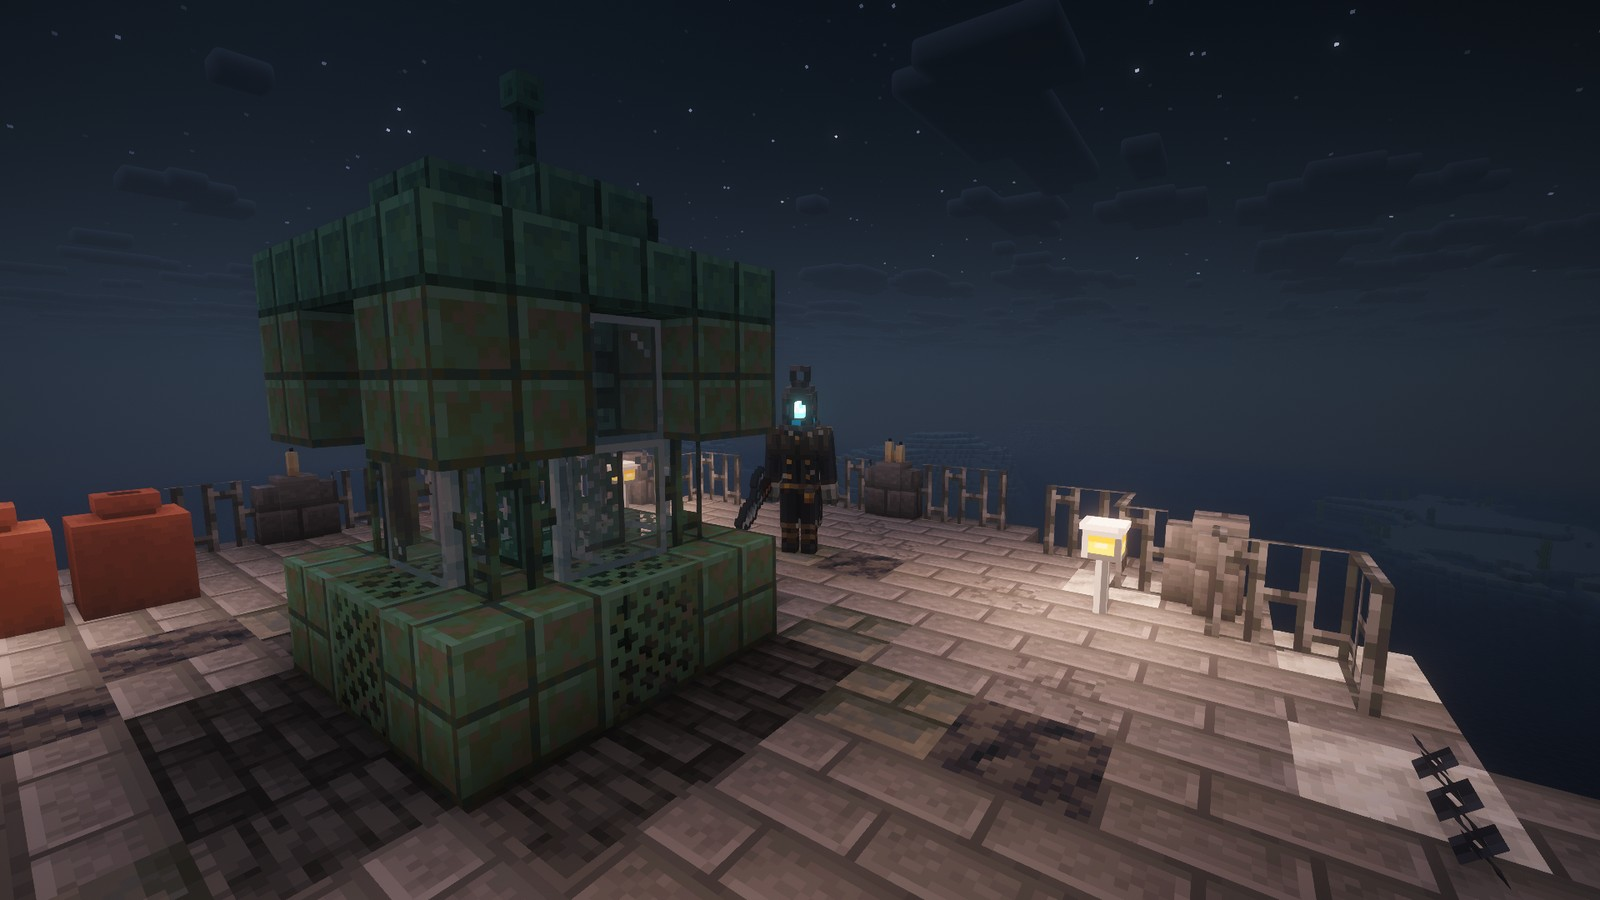
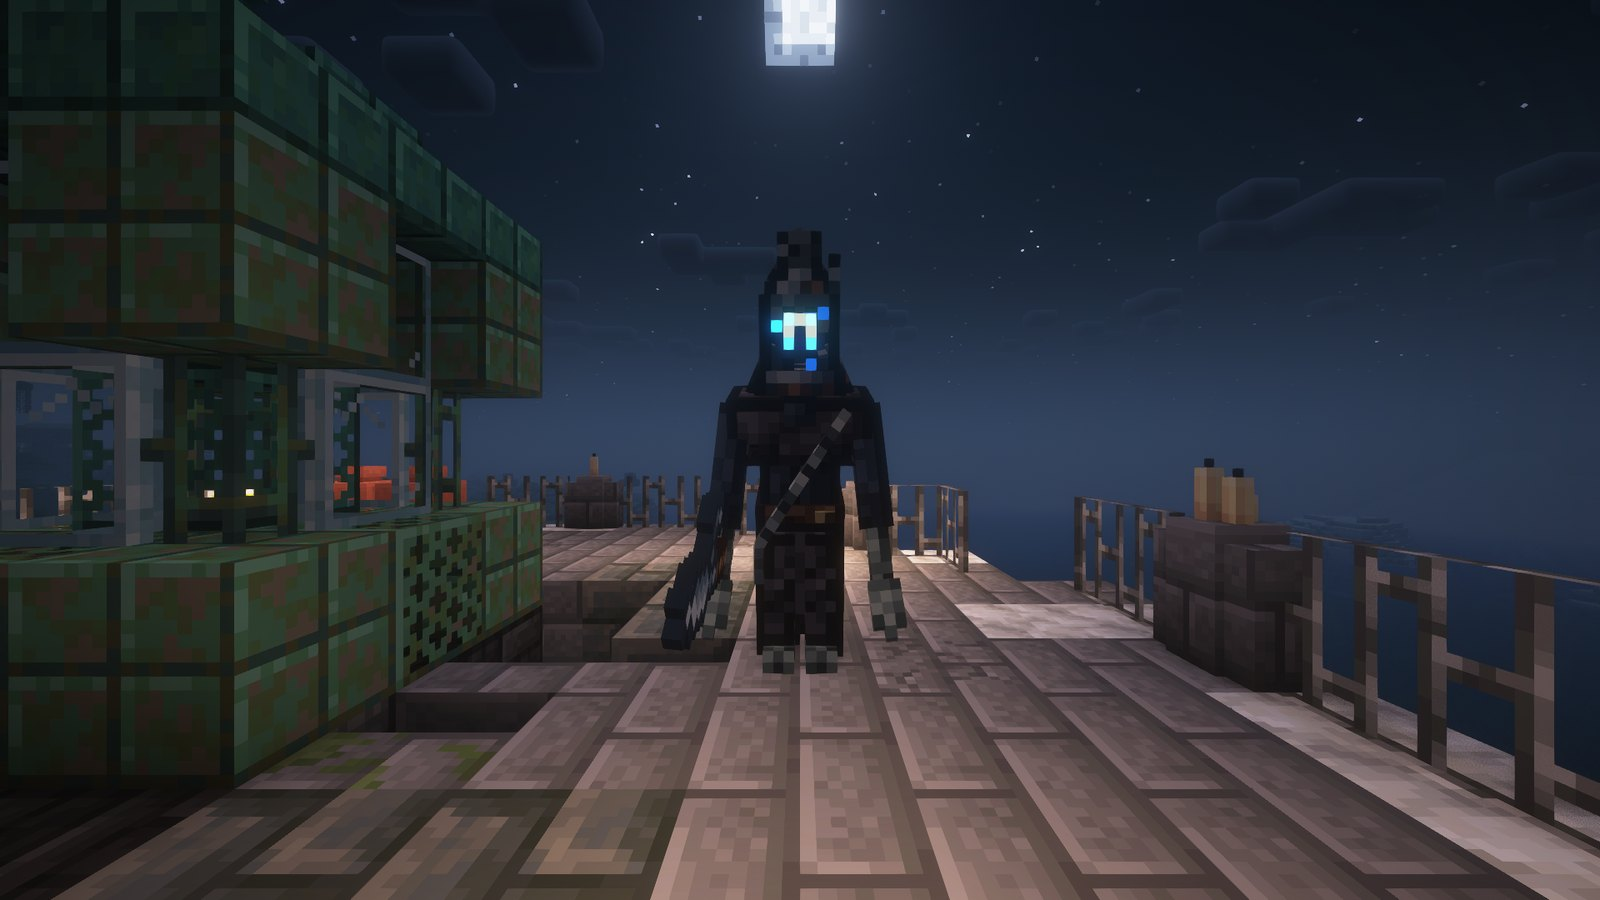
docs: 自述文件介紹新的熄燈人
霧岸燈塔與熄燈人一節改寫：它怎麼想（晚 0.2 秒看見你、往前推演六步、在同一場戰鬥裡學你的習慣、假動作與延遲出手、多人時挑誰）、37 招的分類與打在哪裡、四個誠實的信號，以及黑暗階段。熄燈人的照片全部重拍成新外觀，另加耍槍、滑鏟、高速突襲三張；專案結構補上 boss 套件。拍攝測試加入這三個姿勢與近距離的燈室視角。

diff --git a/src/gametest/java/life/shizune/mistinn/test/MistinnPhotoTest.java b/src/gametest/java/life/shizune/mistinn/test/MistinnPhotoTest.java
@@ -248,9 +248,26 @@ public class MistinnPhotoTest implements FabricClientGameTest {
 					keeper.setYBodyRot(160.0F);
 				});
 
-				// ── The keeper in its lamp room ──────────────────────────
-				frame(context, world, room.offset(4, 1, -1), room.offset(0, 1, 4), false);
+				// ── The keeper in its lamp room, close: turned to the low sun, which lights its face from behind the camera ──
+				world.getServer().runOnServer(server -> {
+					Snuffer keeper = keeper(server, room);
+					keeper.snapTo(room.getX() + 0.5, room.getY(), room.getZ() + 4.5, 90.0F, 0.0F);
+					keeper.setYHeadRot(90.0F);
+					keeper.setYBodyRot(90.0F);
+				});
+				frame(context, world, room.offset(-4, 1, 4), room.offset(0, 1, 4), false);
 				shot(context, "snuffer", true);
+
+				// ── Three of its moves, frozen where they read best: the spear twirled (a thrust is coming), the slide, the rush's thrust ──
+				for (String[] pose : new String[][] {{"twirl", "0.42"}, {"slide", "0.4"}, {"rush", "0.56"}}) {
+					context.runOnClient(mc -> {
+						life.shizune.mistinn.client.keeper.SnufferModel.previewClip = pose[0];
+						life.shizune.mistinn.client.keeper.SnufferModel.previewProgress = Float.parseFloat(pose[1]);
+					});
+					context.waitTicks(3);
+					shot(context, "snuffer-" + pose[0], true);
+				}
+				context.runOnClient(mc -> life.shizune.mistinn.client.keeper.SnufferModel.previewClip = null);
 
 				// ── The dark half: lamps lit against the night ───────────
 				world.getServer().runCommand("time set 15000");
@@ -262,7 +279,8 @@ public class MistinnPhotoTest implements FabricClientGameTest {
 						level.setBlockAndUpdate(lamp, level.getBlockState(lamp).setValue(LampStandBlock.LIT, true));
 					}
 				});
-				frame(context, world, room.offset(-5, 2, -3), room.offset(0, 1, 4), false);
+				// the same close view, now by night: the lantern burns cold and the lamps glow behind it
+				frame(context, world, room.offset(-4, 1, 4), room.offset(0, 1, 4), false);
 				shot(context, "snuffer-dark", true);
 			}
 

diff --git a/README.md b/README.md
@@ -83,7 +83,7 @@
 | 品級 | N、I～VI 七級；名稱顯示為品級色的「◆ 名稱」，物品欄以品級色為底。 |
 | 裝備 | 每個品級各有頭盔、面罩、護甲、胸掛與背包，N～V 另有護腿與靴子；耐久、防護、容量與格局都不同，各有兩行故事描述。 |
 | 格子背包 | 四個口袋、胸掛與背包的格子、死亡不會掉落的安全箱。每件物品依種類佔用不同格數，可以旋轉。背包、胸掛和部分醫療用品有依佔格繪製的專用圖，穿戴的背包與胸掛也會顯示在身上。生存與冒險模式使用原創物品欄，封閉原版的 27 格。 |
-| 霧岸燈塔 | 海岸上熄滅的燈塔，頂層燈室由第一位燈守**熄燈人**看守；它的每個招式打向固定的部位。戰鬥有專屬配樂，進入黑暗階段時換成更急促的曲子。 |
+| 霧岸燈塔 | 海岸上熄滅的燈塔，頂層燈室由第一位燈守**熄燈人**看守。它有 37 招，會一邊看你一邊往前推演六步，學你的習慣、用假動作騙你翻滾；每一招都有聽得見、看得見的預兆，四個誠實的信號告訴你接下來是哪一類招。戰鬥有專屬配樂，進入黑暗階段時換成更急促的曲子。 |
 | 語言 | 繁體中文與英文。 |
 
 | | |
@@ -182,7 +182,7 @@
 
 ## 四肢傷害
 
-![夜裡的燈室：熄燈人的提燈變成冷藍色，四角的燈台被重新點亮](docs/images/snuffer-dark.jpg)
+![熄燈人衝到面前，長槍直刺而來：打在哪個部位，看高度與方向](docs/images/snuffer-rush.jpg)
 
 | 部位 | 健康值 | 防護 |
 | --- | --- | --- |
@@ -275,16 +275,57 @@
 
 | | |
 | --- | --- |
-| ![霧岸燈塔與塔旁的燈守小屋](docs/images/lighthouse.jpg) | ![燈室裡，熄燈人提著長鉤站在欄杆邊](docs/images/snuffer.jpg) |
+| ![霧岸燈塔與塔旁的燈守小屋](docs/images/lighthouse.jpg) | ![夕陽照進燈室，熄燈人裂開的提燈裡有一隻燃燒的眼](docs/images/snuffer.jpg) |
 
-| 招式 | 預備動作 | 打在哪裡 |
+熄燈人比人還高、駝著背，提燈頭掛在彎折的脖子上往前垂，右側和正面裂開，裡面一隻燃燒的眼；手臂細長，末端是三根鉤爪，鎖鏈從肩上斜掛到腰間。
+
+### 它會想
+
+熄燈人不照固定的順序出招。它一直在看你：站多遠、往哪跑、在做什麼（揮擊、翻滾、治療、衝刺）、精力剩多少、腿還在不在。它看到的永遠比實際晚 0.2 秒，像人一樣需要反應時間。
+
+- **往前想六步**：每到能出手的時候，它會在招式之間推演最多六步，估算你可能的反應（往左翻、往右翻、往後翻、後退、反擊、硬吃），選分數最高的一條路，只走第一步，下一刻再重新想。
+- **會學你**：同一場戰鬥裡，它記得你看到每一種預兆後做了什麼、什麼時候翻滾、喜歡站多遠、收招後多久反擊。總是提早翻滾的人，會看到它用假動作，或停在半空等你翻完；總往同一邊翻的人，會吃到蓋住那一邊的招。燈室裡 30 秒沒有活著的追獵者，它就忘了。
+- **假動作**：假橫掃、假鉤鎖、假突刺和真招的聲音、動作一模一樣，在出手前轉成另一招；有些招會在前搖最後一刻停住，等你的翻滾用掉。
+- **會挑人**：多人時，它偏好剛打過它的人、正在治療的人、精力見底或雙腿壞死的人。
+- **躲不掉**：退到燈室角落也一樣會被它追上。
+
+### 每一招都有預兆
+
+一共 37 招，每一招開頭都有自己的聲音與動作；假動作借用它模仿的那一招。重招的前搖至少 0.7 秒，輕招至少 0.4 秒，抓取至少 0.8 秒。
+
+| | |
+| --- | --- |
+| ![熄燈人把長槍在手中轉一圈](docs/images/snuffer-twirl.jpg) | ![熄燈人壓低身子，腳先著地滑過來](docs/images/snuffer-slide.jpg) |
+| 耍槍：信號，接下來一定是刺擊 | 滑鏟：沿地面掃雙腿，跳起來能躲 |
+
+| 類別 | 招式 | 打在哪裡 |
 | --- | --- | --- |
-| 橫掃 | 提燈亮起、身體後仰，有一道拉長的金屬刮聲 | 軀幹，或靠近那一側的手 |
-| 下砸 | 跳起前地面浮出鹽粒，腳邊傳出碎響 | 落地的衝擊波打雙腿 |
-| 勾拉 | 燈鉤往後拉，鐵鏈突然繃緊 | 把你拉到身邊，再打臉，只有面罩能減傷 |
+| 步法 | 左右側步、後撤步、繞行、後跳、滑鏟、高速突襲 | 滑鏟打雙腿；高速突襲 0.4 秒衝近 8 格，接一記突刺打軀幹 |
+| 近身 | 橫掃、雙段橫掃、迴旋掃、突刺、三連刺、下劈、反手撩、掃腿、槍柄撞擊、燈籠砸擊、抓取摔投 | 下劈打頭、燈籠砸擊打臉、反手撩打手臂、掃腿打雙腿，其餘大多打軀幹；迴旋掃連背後也打得到 |
+| 中遠距離 | 跳砸、跳砸衝擊波、延遲跳砸、鉤鎖、鉤鎖甩地、鉤鎖回拉反刺、擲鉤掃場 | 跳砸與擲鉤打雙腿，衝擊波只打貼地的人；鉤鎖把你拉近再打臉 |
+| 假動作 | 假橫掃、假鉤鎖、假突刺 | 不打人，出手前轉成下一招 |
+| 黑暗階段 | 熄燈、霧中突襲、魂火橫掃 | 霧中突襲從背後打軀幹，魂火會點燃 |
+
+招式之間能自然接續，例如橫掃接突刺、側步接下劈、突刺接掃腿再接下劈、後撤接鉤鎖。連招是它當下選出來的，不是固定套路。
+
+### 看懂信號
+
+它沒出手時不會呆站：會歪頭、換腳、喘一口氣，這些不代表什麼。下面四個動作是**信號**，而且是誠實的：做了之後 3 秒內會打人的下一招，一定屬於那一類，假動作也不會模仿信號。
+
+| 信號 | 接下來 |
+| --- | --- |
+| 耍槍：長槍在手中轉一圈 | 刺擊：突刺、三連刺、高速突襲 |
+| 甩燈籠：提燈繞一圈，火光變亮 | 燈籠：燈籠砸擊、魂火橫掃 |
+| 拉緊鎖鏈：鏈子繃直作響 | 鉤鎖：鉤鎖、鉤鎖甩地、鉤鎖回拉反刺、擲鉤掃場 |
+| 壓低身體：像要撲過來 | 突進：滑鏟、跳砸、跳砸衝擊波 |
+
+### 黑暗階段
+
+![月光下的燈室，熄燈人裂開的提燈裡，燃燒的眼變成冷藍色](docs/images/snuffer-dark.jpg)
 
 - 生命 300、護甲 8，有頭目血條。
-- 生命一半以下，燈室裡的燈全熄，你會陷入黑暗。對著四座燈台按右鍵點亮，全部亮起時它會失衡五秒，受到的傷害 ×1.5；之後它會把燈台一座座吹熄。
+- 生命一半以下，燈室裡的燈全熄，你會陷入黑暗；它的眼變成冷藍色的魂火，開始使用霧中突襲與魂火橫掃。霧中突襲出現前一定先有低語與遠方的鐘聲。
+- 對著四座燈台按右鍵點亮，全部亮起時它會失衡五秒，受到的傷害 ×1.5；之後它會轉向燈台，把火一座座吸走。
 - 擊倒後掉落**鏽神的鹽塊**、3000 鹽，以及 30% 機率一件 III～IV 級的裝備。
 - 進入燈室，或它受傷後在 32 格內，就會響起燈守戰的配樂。生命一半以下，熄燈時先響一聲低鐘，再接進黑暗階段的曲子。戰鬥結束就停。
 
@@ -379,7 +420,8 @@ src/main/java/life/shizune/mistinn/
   block/       金鐘、墓碑
   gear/        各品級裝備的數值
   grid/        格子背包：佔格、規則、胸掛與面罩、伺服器端操作、網路封包
-  keeper/      燈守：熄燈人與燈台
+  boss/        燈守共用的招式、命中判定、感知、玩家模型與六步推演
+  keeper/      燈守：熄燈人的招式表、黑暗階段與燈台
   medical/     醫療、用藥與裝備維修
   residue/     死亡、殘香與墓碑
   story/       故事模式：世界模式、進度、保證出現的地點與無線電
@@ -399,7 +441,7 @@ src/client/java/life/shizune/mistinn/client/
   gear/        穿在身上的面罩、胸掛與背包
   body/        部位 HUD
   grid/        物品欄介面與格子背包面板
-  keeper/      熄燈人的外觀
+  keeper/      熄燈人的外觀、待機動作與招式動畫
   map/         小地圖
   tier/        「◆ 名稱」與提示
 src/gametest/  客戶端遊戲測試與拍攝
@@ -410,7 +452,7 @@ docs/          設計文件
 
 1. **故事模式的後續章節**：第二章「鹽之路」，之後是沉鐘、鏽輪兩位燈守，以及霧宿與結局。
 2. **禁區的其餘部分**：靠近燈塔時變濃的霧與小地圖的霧、需要燈油的第二座金鐘、燈室的霧牆、霧中的小怪（鹽屍、霧影、燈奴）與霧中分身，設計見 [docs/phase2-design.md](docs/phase2-design.md)。
-3. **更多燈守**：沉鐘與鏽輪。
+3. **更多燈守**：沉鐘與鏽輪，沿用熄燈人的招式系統與大腦。
 4. **之後**：在金鐘用鹽升級、更多武器與蓄力重擊、多人合作。
 
 ## 參與貢獻
